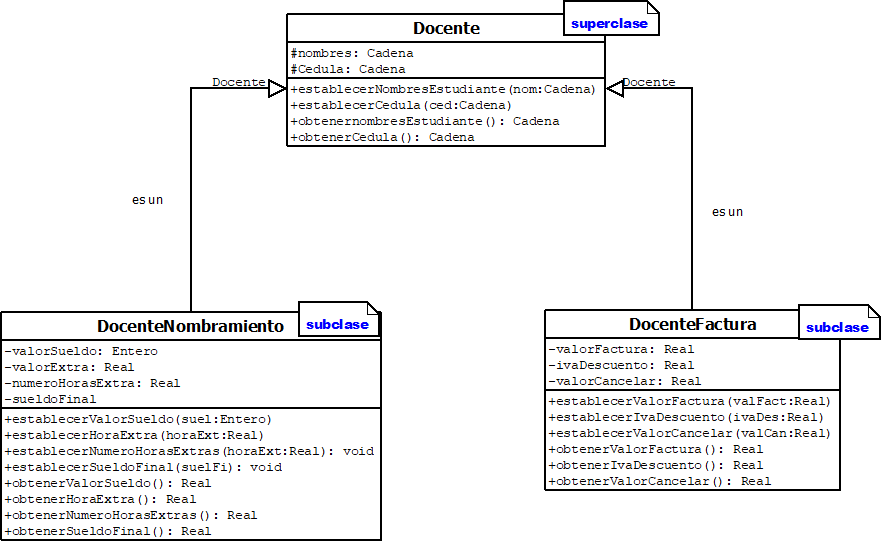
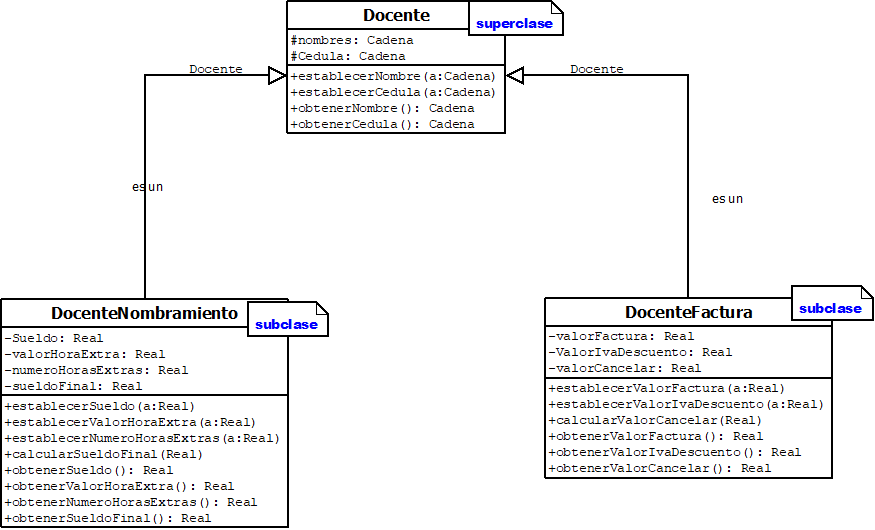
Taller Finalizado

diff --git a/Taller08/src/paquete2/Ejecutor.java b/Taller08/src/paquete2/Ejecutor.java
@@ -5,10 +5,109 @@
  */
 package paquete2;
 
+import java.util.Locale;
+import java.util.Scanner;
+import paquete1.DocenteFactura;
+import paquete1.DocenteNombramiento;
+
 /**
  *
  * @author reroes
  */
 public class Ejecutor {
-    
+
+    public static void main(String[] args) {
+        Scanner entrada = new Scanner(System.in);
+        String option;
+        String mensaje;
+        String nombreDocen;
+        String cedula;
+
+        System.out.println("Ingresa 1 para introducir datos de Estudiante Presencial"
+                + "o 2 para introducir datos de Estudiante a Distancia ");
+        option = entrada.nextLine();
+
+        if (option.equals("1") || option.equals("2")) {
+
+            System.out.println("Bienvenido a nuestra Plataforma de Informacion\n");
+            System.out.println("Ingrese su nombre");
+            nombreDocen = entrada.nextLine();
+
+            System.out.println("Ingrese su Identifiacion");
+            cedula = entrada.nextLine();
+
+            switch (option) {
+                case "1":
+                    mensaje = nombramiento(nombreDocen, cedula);
+                    System.out.println(mensaje);
+                    break;
+                case "2":
+                    mensaje = factura(nombreDocen, cedula);
+                    System.out.println(mensaje);
+                    break;
+
+                default:
+
+            }
+        } else {
+            System.out.println("Error, opcion no valida.");
+        }
+
+    }
+
+    public static String nombramiento(String nombreDocen, String cedula) {
+
+        Scanner entrada = new Scanner(System.in);
+        entrada.useLocale(Locale.US);
+        DocenteNombramiento nombramientoDo = new DocenteNombramiento();
+        double sueldoN;
+        double valorHoraExtraN;
+        double numeroHorasExtrasN;
+        //double sueldoFinalN;
+
+        System.out.println("Ingrese el sueldo del docente");
+        sueldoN = entrada.nextDouble();
+        System.out.println("Ingrese el valor de las horas extras");
+        valorHoraExtraN = entrada.nextDouble();
+        System.out.println("Ingrese la cantidad de horas extras laboradas");
+        numeroHorasExtrasN = entrada.nextDouble();
+
+        nombramientoDo.establecerNombre(nombreDocen);
+        nombramientoDo.establecerCedula(cedula);
+        nombramientoDo.establecerSueldo(sueldoN);
+        nombramientoDo.establecerValorHoraExtra(valorHoraExtraN);
+        nombramientoDo.establecerNumeroHorasExtras(numeroHorasExtrasN);
+        nombramientoDo.calcularSueldoFinal();
+
+        String cadena;
+        cadena = String.format("%s\n", nombramientoDo);
+        return cadena;
+
+    }
+
+    public static String factura(String nombreDocen, String cedula) {
+
+        Scanner entrada = new Scanner(System.in);
+        entrada.useLocale(Locale.US);
+        DocenteFactura facturaDo = new DocenteFactura();
+
+        double ValorFacturaF;
+        double ValorIvaDescuentoF;
+        double ValorCancelarF;
+
+        System.out.println("Ingrese el valor de la Factura");
+        ValorFacturaF = entrada.nextDouble();
+        System.out.println("Ingrese el valor del iva a descontar");
+        ValorIvaDescuentoF = entrada.nextDouble();
+
+        facturaDo.establecerNombre(nombreDocen);
+        facturaDo.establecerCedula(cedula);
+        facturaDo.establecerValorFactura(ValorFacturaF);
+        facturaDo.establecerValorIvaDescuento(ValorIvaDescuentoF);
+        facturaDo.calcularValorCancelar();
+
+        String cadena;
+        cadena = String.format("%s\n", facturaDo);
+        return cadena;
+    }
 }

diff --git a/Taller08/src/paquete1/DocenteNombramiento.java b/Taller08/src/paquete1/DocenteNombramiento.java
@@ -1,0 +1,72 @@
+/*
+ * Click nbfs://nbhost/SystemFileSystem/Templates/Licenses/license-default.txt to change this license
+ * Click nbfs://nbhost/SystemFileSystem/Templates/Classes/Class.java to edit this template
+ */
+package paquete1;
+
+/**
+ *
+ * @author M S I
+ */
+public class DocenteNombramiento extends Docente {
+
+    private double sueldo;
+    private double valorHoraExtra;
+    private double numeroHorasExtras;
+    private double sueldoFinal;
+
+    public void establecerSueldo(double a) {
+        sueldo = a;
+    }
+
+    public void establecerValorHoraExtra(double a) {
+        valorHoraExtra = a;
+    }
+
+    public void establecerNumeroHorasExtras(double a) {
+        numeroHorasExtras = a;
+    }
+
+    public void calcularSueldoFinal() {
+        sueldoFinal = sueldo + (valorHoraExtra * numeroHorasExtras);
+    }
+
+    public double obtenerSueldo() {
+        return sueldo;
+    }
+
+    public double obtenerValorHoraExtra() {
+        return valorHoraExtra;
+    }
+
+    public double obtenerNumeroHorasExtras() {
+        return numeroHorasExtras;
+    }
+
+    public double obtenerSueldoFinal() {
+        return sueldoFinal;
+    }
+
+    @Override
+    public String toString() {
+        String cadena;
+        cadena = String.format("--------------- REPORTE DEL NOMBRAMIENTO DOCENTE "
+                + "------------------\n"
+                + "Nombre: %s.\n"
+                + "Cedula: %s.\n"
+                + "Sueldo: %.2f.\n"
+                + "Numero de horas extra: %.2f.\n"
+                + "Valor de cada hora extra : %.2f.\n"
+                + "Sueldo a cancelar: %.2f.\n"
+                + "-------------------------------------------------------------"
+                + "------",
+                nombre,
+                cedula,
+                sueldo,
+                numeroHorasExtras,
+                valorHoraExtra,
+                sueldoFinal);
+        return cadena;
+    }
+
+}

diff --git a/Taller08/src/paquete1/DocenteFactura.java b/Taller08/src/paquete1/DocenteFactura.java
@@ -1,0 +1,59 @@
+/*
+ * Click nbfs://nbhost/SystemFileSystem/Templates/Licenses/license-default.txt to change this license
+ * Click nbfs://nbhost/SystemFileSystem/Templates/Classes/Class.java to edit this template
+ */
+package paquete1;
+
+/**
+ *
+ * @author M S I
+ */
+public class DocenteFactura extends Docente {
+
+    private double ValorFactura;
+    private double ValorIvaDescuento;
+    private double ValorCancelar;
+
+    public void establecerValorFactura(double a) {
+        ValorFactura = a;
+    }
+
+    public void establecerValorIvaDescuento(double a) {
+        ValorIvaDescuento = a;
+    }
+
+    public void calcularValorCancelar() {
+        ValorCancelar = ValorFactura - (ValorFactura * ValorIvaDescuento) / 100;
+    }
+
+    public double obtenerValorFactura() {
+        return ValorFactura;
+    }
+
+    public double obtenerValorIvaDescuento() {
+        return ValorIvaDescuento;
+    }
+
+    public double obtenerValorCancelar() {
+        return ValorCancelar;
+    }
+
+    @Override
+    public String toString() {
+        String cadena;
+        cadena = String.format("--------------- REPORTE DE FACTURA "
+                + "------------------\n"
+                + "Nombre: %s.\n"
+                + "Cedula: %s.\n"
+                + "Valor de la factura: %.2f.\n"
+                + "Porcentaje de IVA a descontar: %.2f.\n"
+                + "Valor a Cancelar : %.2f.\n"
+                + "------------------------------------------------------",
+                nombre,
+                cedula,
+                ValorFactura,
+                ValorIvaDescuento,
+                ValorCancelar);
+        return cadena;
+    }
+}

diff --git a/Taller08/src/paquete1/Docente.java b/Taller08/src/paquete1/Docente.java
@@ -11,11 +11,23 @@ package paquete1;
  */
 public class Docente {
 
-    /**
-     * @param args the command line arguments
-     */
-    public static void main(String[] args) {
-        // TODO code application logic here
+    protected String nombre;
+    protected String cedula;
+
+    public void establecerNombre(String a) {
+        nombre = a;
     }
-    
+
+    public void establecerCedula(String a) {
+        cedula = a;
+    }
+
+    public String obtenerNombre() {
+        return nombre;
+    }
+
+    public String obtenerCedula() {
+        return cedula;
+    }
+
 }
